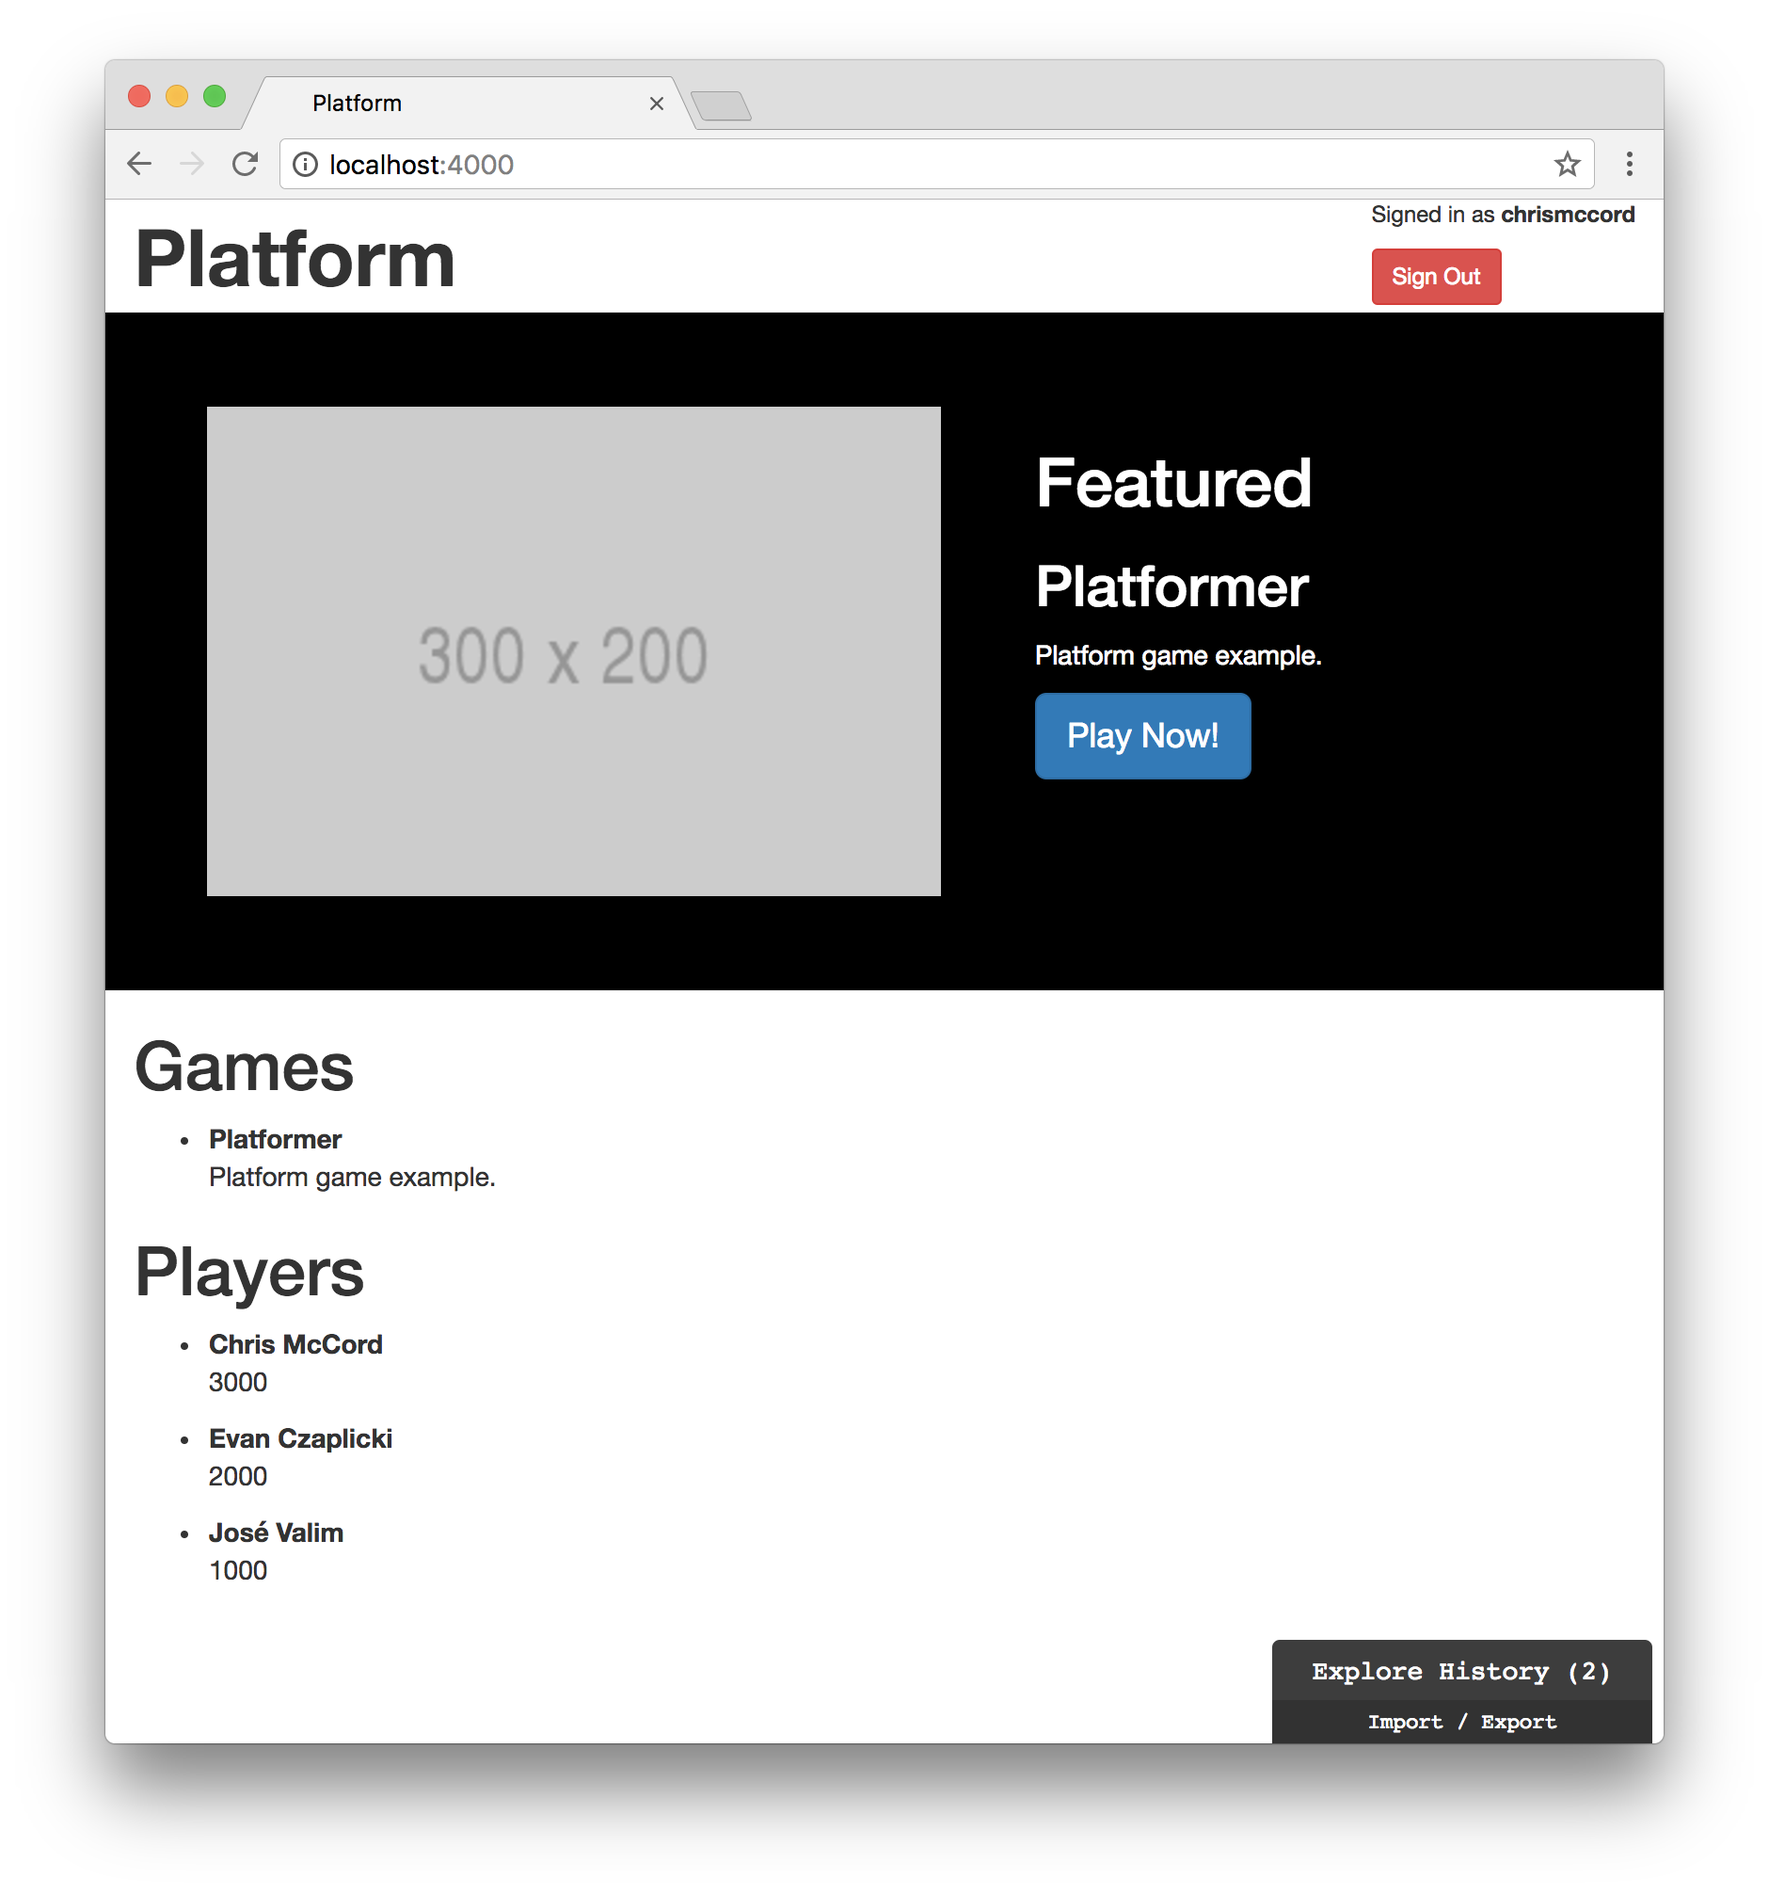
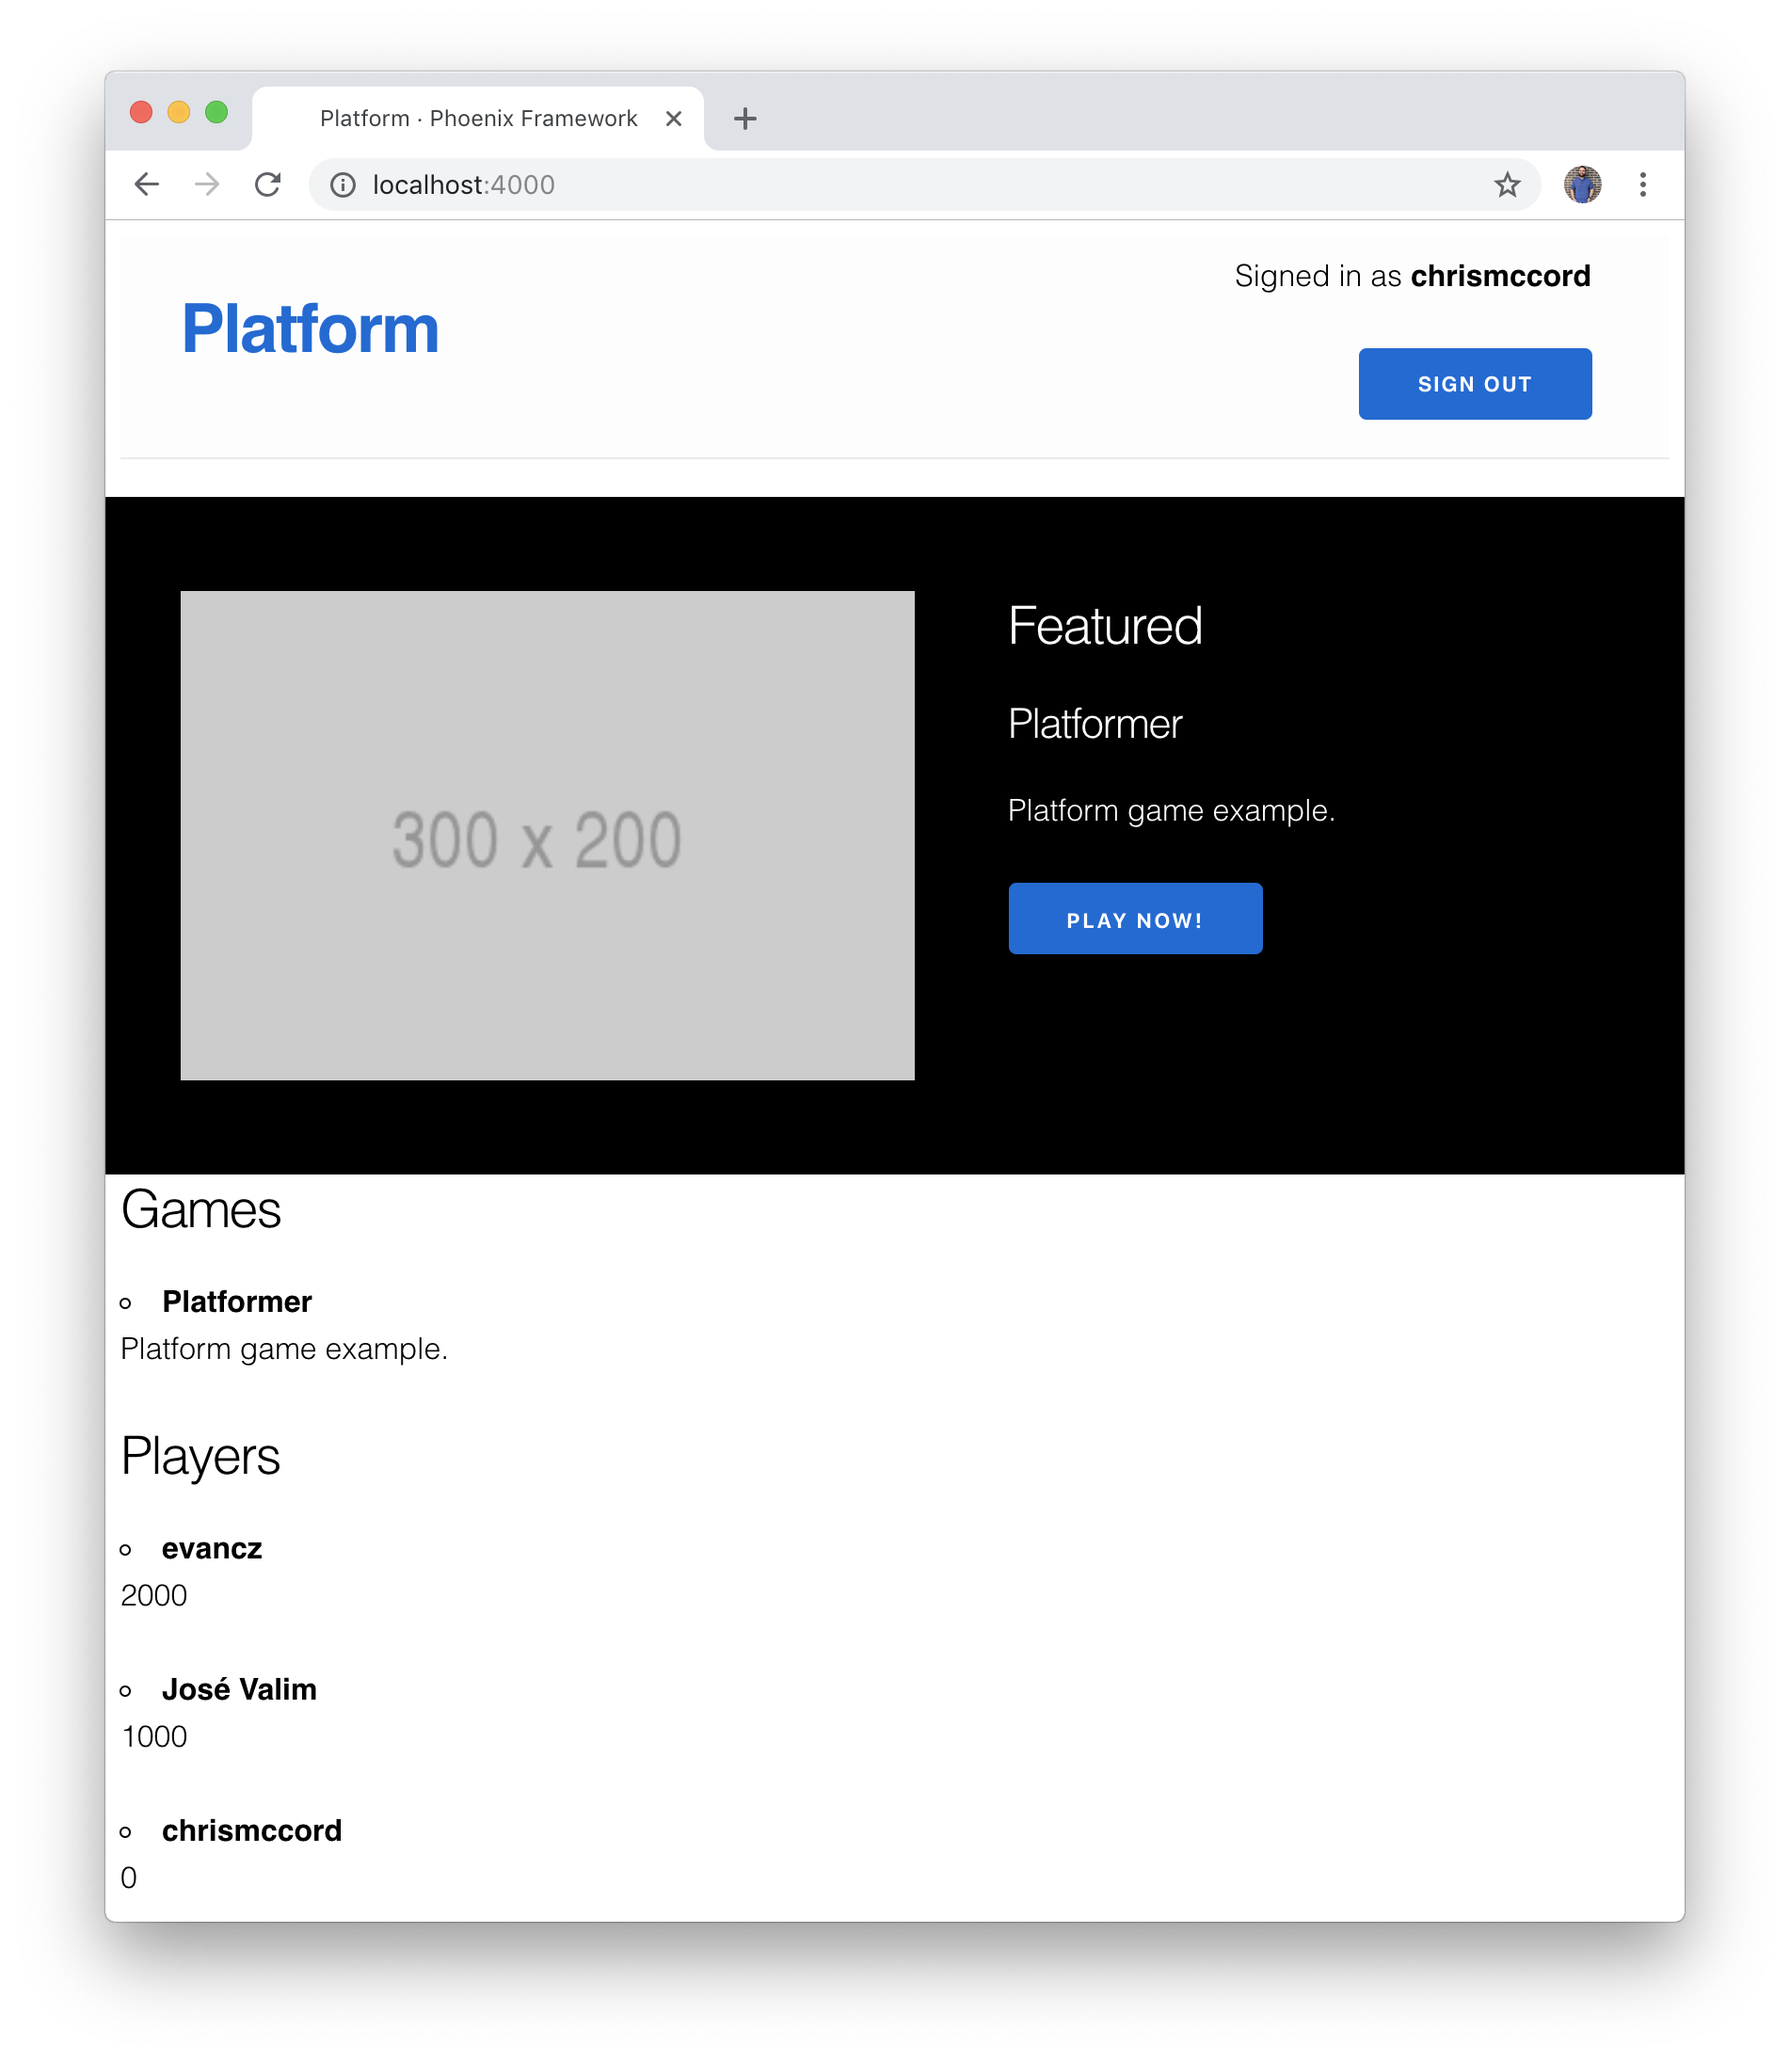
Working on updates to the design chapter

diff --git a/manuscript/design_and_usability.md b/manuscript/design_and_usability.md
@@ -109,6 +109,21 @@ section and main content area are centered on the page.
 </body>
 ```
 
+Let's remove the `.container` class from our `<main>` element so our content
+can stretch the full width of the page.
+
+```html
+<body>
+  <header>
+    <section class="container"><!-- ... --></section>
+  </header>
+  <main role="main"><!-- ... --></main>
+</body>
+```
+
+This allows our header to stay centered on the page, but enables us to control
+where we want to put all of our player and game data below.
+
 ## Writing New Styles
 
 Instead of displaying the Phoenix logo in our header, let's display a simple
@@ -158,8 +173,8 @@ our Elm application where we handle our game data. Beneath the header, we're
 going to add a "featured" section where we can feature a game that stands out
 from the rest of the content.
 
-Let's open up our `Main.elm` file in the `assets/elm` folder, and we'll update
-the `view` function while adding a new `featured` function just below it:
+Let's open up our `assets/elm/src/Main.elm` file, and we'll update the `view`
+function while adding a new `featured` function just below it:
 
 ```elm
 view : Model -> Html Msg
@@ -174,16 +189,17 @@ view model =
 featured : Model -> Html msg
 featured model =
     div [ class "row featured" ]
-        [ h1 [] [ text "Featured" ] ]
+        [ h2 [] [ text "Featured" ] ]
 ```
 
-Note that we added a `featured` class so we can use CSS to style this section.
-The `row` class comes from Bootstrap, and allows this section to stretch to the
-full width of the window. Open up the `app.css` file where we can add custom
-CSS for our application, and add the following:
+Note that we added a `.featured` class so we can use CSS to style this section.
+The `.row` class comes from our preloaded CSS framework, and allows this
+section to stretch the full width of the window.
+
+Open up the `assets/css/app.css` file where we can add our custom CSS and add
+the following:
 
 ```css
-/* Featured section */
 .featured {
   height: 360px;
   background-color: black;
@@ -251,10 +267,10 @@ featured model =
                     [ div [ class "featured-img" ]
                         [ img [ class "featured-thumbnail", src game.thumbnail ] [] ]
                     , div [ class "featured-data" ]
-                        [ h1 [] [ text "Featured" ]
-                        , h2 [] [ text game.title ]
+                        [ h2 [] [ text "Featured" ]
+                        , h3 [] [ text game.title ]
                         , p [] [ text game.description ]
-                        , button [ class "btn btn-lg btn-primary" ] [ text "Play Now!" ]
+                        , button [ class "button" ] [ text "Play Now!" ]
                         ]
                     ]
                 ]
@@ -271,7 +287,6 @@ Let's add a couple of CSS declarations to clean things up. Open the `app.css`
 file and we'll add the following to our featured CSS declarations:
 
 ```css
-/* Featured section */
 .featured {
   height: 360px;
   background-color: black;
